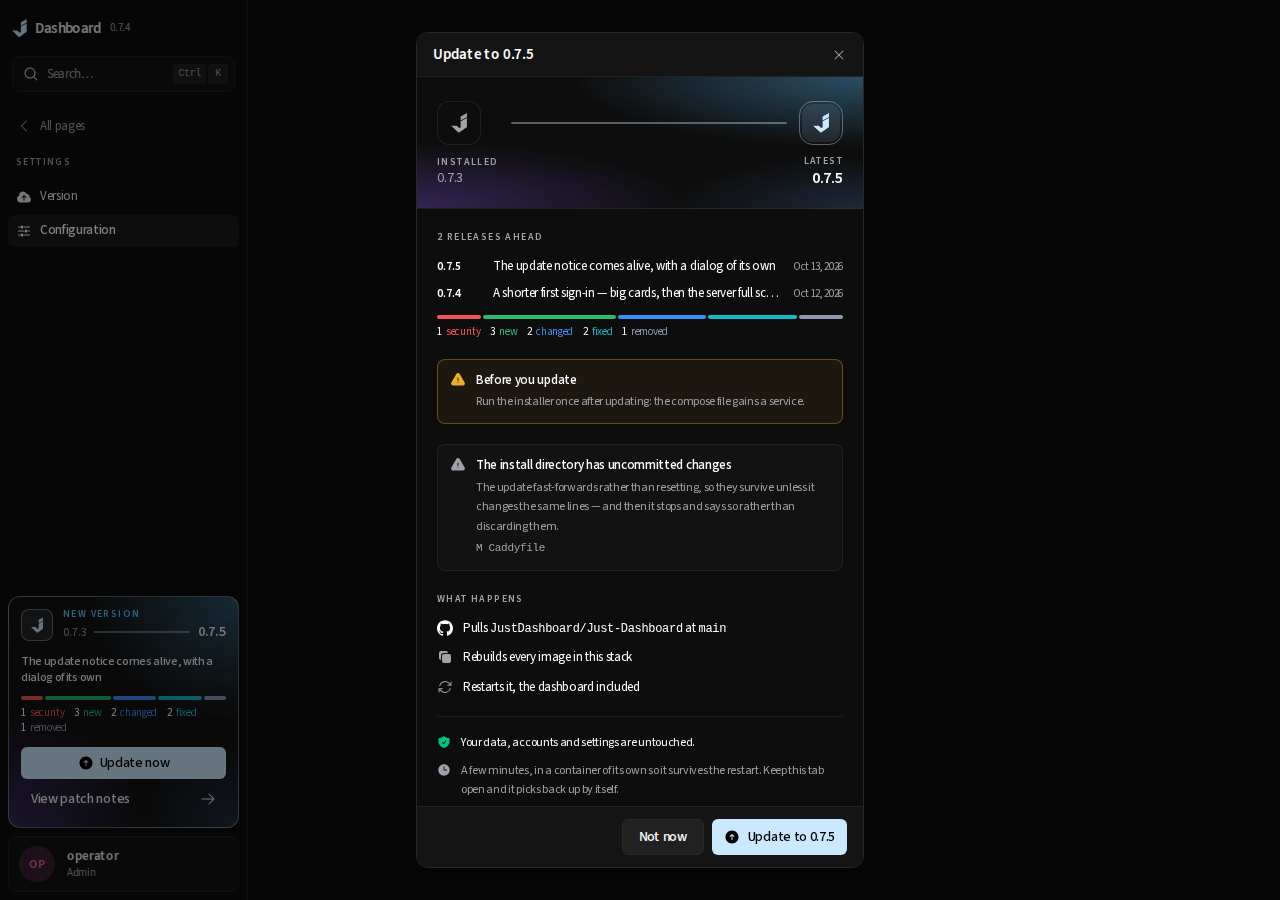
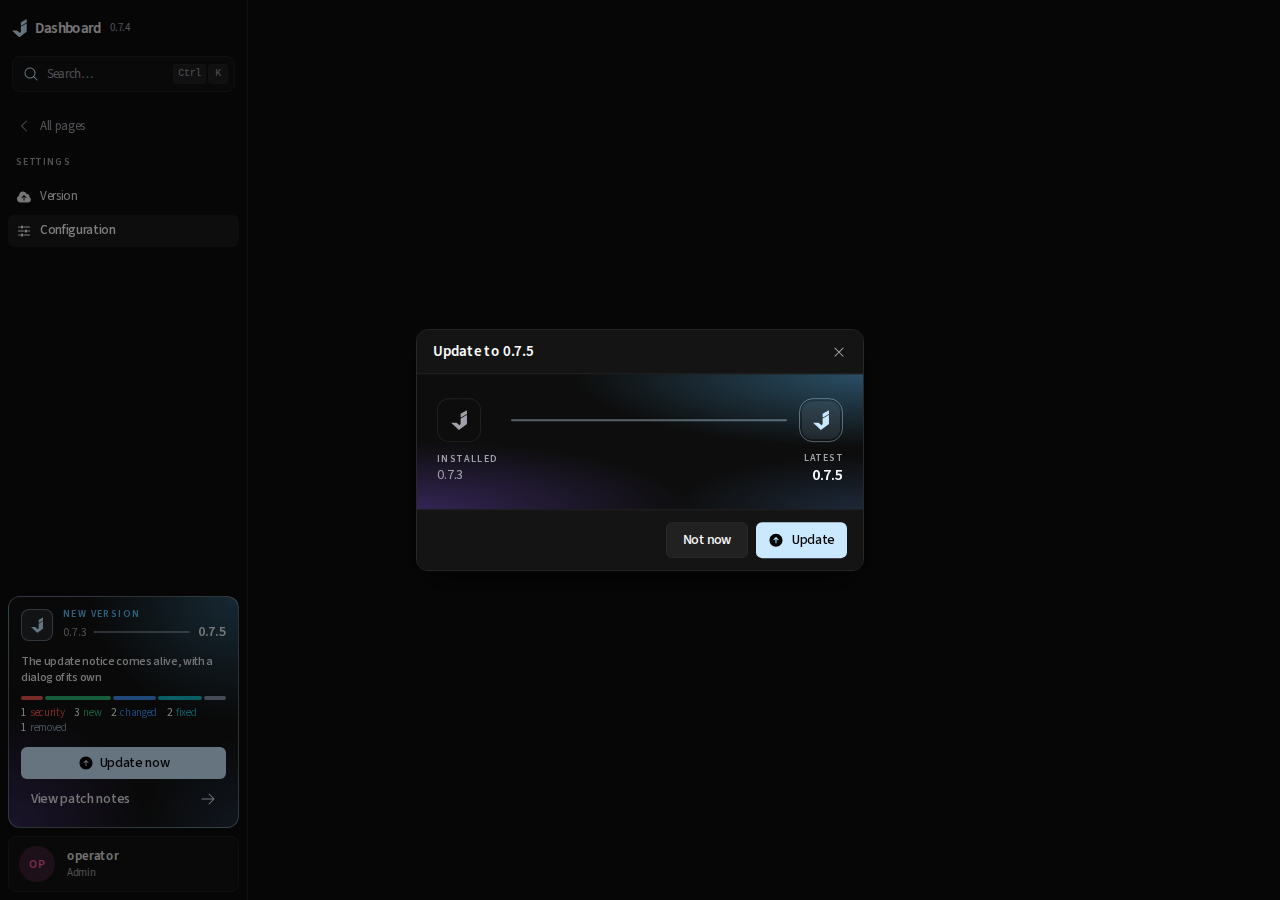
Ask for the update as a yes or a no, with the two versions and nothing else to read

diff --git a/frontend/src/components/update/update-dialog.tsx b/frontend/src/components/update/update-dialog.tsx
@@ -1,48 +1,30 @@
 "use client"
 
 import { useState } from "react"
-import {
-  ArrowCircleUp,
-  Layers,
-  RefreshClockwise,
-  ShieldCheck,
-  Stopwatch,
-  Warning,
-} from "@/components/icons"
+import { ArrowCircleUp } from "@/components/icons"
 import { notify } from "@/lib/toast"
 import { useSelfUpdate } from "@/hooks/use-self-update"
 import { LogoGlyph } from "@/components/logo"
-import { ProductGlyph } from "@/components/product-logo"
-import { KindBand, UpdateWire } from "@/components/update/update-art"
-import { releaseDay } from "@/components/update/release-notes"
+import { UpdateWire } from "@/components/update/update-art"
 import { Modal } from "@/components/modal"
-import { Notice } from "@/components/state"
 import { Button } from "@/components/ui/button"
 
 /**
- * "Update to 0.7.5?", asked as what it is.
+ * "Update to 0.7.5?" — yes or not now, and nothing else to read.
  *
  * This was the shared `ConfirmDialog`, and that dialog exists for acts that
  * are awkward to undo — most of them deletions — so its command is always
  * destructive red. An update is the opposite kind of act: the operator is
  * taking something, and the dialog asking them to confirm it wore the same
- * red as "Delete database". So it has its own. The command is the brand face
- * (§3: the one action on the surface), and the dialog says the three things
- * somebody about to replace their dashboard wants to know:
+ * red as "Delete database". So it has its own, with the brand face (§3: the
+ * one action on the surface).
  *
- * - **what arrives** — the installed version wired to the newest one, the
- *   releases between them, and what they hold by kind;
- * - **what has to be done by hand**, if anything — a breaking release's note
- *   and uncommitted edits in the checkout, never folded away;
- * - **what happens** — pulled from where, rebuilt, restarted — and what does
- *   not: the data, the accounts and the settings.
- *
- * It is a `Modal` like every other dialog — the title strip, a body that
- * scrolls, the command in the footer — and its body opens on a picture rather
- * than a sentence: the two versions wired together on arrival's light
- * (`.update-art`, design system §16), for the reason the sidebar notice stands
- * on it: a new version is the one thing in the shell that announces something
- * arriving.
+ * It asks and does not explain. A dialog that also listed the releases, the
+ * breaking notes and what the updater does was too much to read for a yes or
+ * a no; all of that is on the Version page, where the notice's *View patch
+ * notes* goes. What is left is the picture: the installed version wired to
+ * the newest on arrival's light (`.update-art`, design system §16), the way
+ * the sidebar notice draws it.
  *
  * No phrase to type: the route is destructive, but installing an update is
  * not one of the unrecoverable acts that require one (security invariant 3).
@@ -59,9 +41,6 @@ export function UpdateDialog({
   if (!report?.latest) return null
 
   const target = report.latest
-  const releases = report.releases
-  const dirty = report.install.dirty ?? []
-  const breaking = releases.filter((release) => release.breaking && release.breakingNote)
 
   const start = async () => {
     setBusy(true)
@@ -81,7 +60,7 @@ export function UpdateDialog({
       onOpenChange={(next) => !busy && onOpenChange(next)}
       size="sm"
       title={`Update to ${target}`}
-      description={`Installs ${target} over ${report.version}: pulls ${report.check.repo} at ${report.check.ref}, rebuilds every image in this stack and restarts it, the dashboard included.`}
+      description={`Installs ${target} over ${report.version} and restarts the dashboard.`}
       bodyClassName="p-0"
       footer={
         <>
@@ -90,14 +69,14 @@ export function UpdateDialog({
           </Button>
           <Button onClick={start} pending={busy}>
             <ArrowCircleUp />
-            Update to {target}
+            Update
           </Button>
         </>
       }
     >
       <div
         aria-hidden
-        className="update-art grid grid-cols-[auto_minmax(0,1fr)_auto] items-center gap-x-3 gap-y-2 border-b border-hairline px-5 pt-6 pb-5"
+        className="update-art grid grid-cols-[auto_minmax(0,1fr)_auto] items-center gap-x-3 gap-y-2 px-5 py-6"
       >
         <VersionMark />
         <UpdateWire />
@@ -105,109 +84,6 @@ export function UpdateDialog({
         <VersionLabel label="Installed" version={report.version} />
         <span />
         <VersionLabel label="Latest" version={target} next />
-      </div>
-
-      <div className="space-y-5 p-5">
-        {releases.length > 0 && (
-          <section className="space-y-3">
-            <h3 className="eyebrow">
-              {releases.length === 1 ? "What's in it" : `${releases.length} releases ahead`}
-            </h3>
-            <ul className="space-y-2">
-              {releases.slice(0, 4).map((release) => (
-                <li key={release.version} className="flex min-w-0 items-baseline gap-3">
-                  <span className="numeric w-11 shrink-0 text-xs font-semibold">
-                    {release.version}
-                  </span>
-                  <span className="min-w-0 flex-1 truncate text-body">{release.title}</span>
-                  <time
-                    dateTime={release.date}
-                    className="shrink-0 text-hint text-muted-foreground"
-                  >
-                    {releaseDay(release.date)}
-                  </time>
-                </li>
-              ))}
-            </ul>
-            {releases.length > 4 && (
-              <p className="text-hint text-muted-foreground">
-                and {releases.length - 4} more, back to {releases[releases.length - 1].version}
-              </p>
-            )}
-            <KindBand releases={releases} />
-          </section>
-        )}
-
-        {/* A breaking release is never folded away: the flag means the
-              operator has something to do by hand, and a warning met after
-              pressing Update is a warning met too late. */}
-        {breaking.map((release) => (
-          <Notice
-            key={release.version}
-            tone="warning"
-            icon={Warning}
-            title={
-              breaking.length === 1 ? (
-                "Before you update"
-              ) : (
-                <>
-                  Before you update — <span className="numeric">{release.version}</span>
-                </>
-              )
-            }
-          >
-            {release.breakingNote}
-          </Notice>
-        ))}
-
-        {dirty.length > 0 && (
-          <Notice title="The install directory has uncommitted changes" icon={Warning}>
-            <p>
-              The update fast-forwards rather than resetting, so they survive unless it changes the
-              same lines — and then it stops and says so rather than discarding them.
-            </p>
-            <ul className="mt-1 space-y-0.5 font-mono text-hint">
-              {dirty.slice(0, 4).map((line) => (
-                <li key={line}>{line}</li>
-              ))}
-            </ul>
-          </Notice>
-        )}
-
-        <section className="space-y-3">
-          <h3 className="eyebrow">What happens</h3>
-          <ol className="space-y-2.5 text-body">
-            <li className="flex min-w-0 items-center gap-2.5">
-              <ProductGlyph id="github" className="size-4" />
-              <span className="min-w-0 flex-1 truncate">
-                Pulls <span className="font-mono text-xs">{report.check.repo}</span> at{" "}
-                <span className="font-mono text-xs">{report.check.ref}</span>
-              </span>
-            </li>
-            <li className="flex min-w-0 items-center gap-2.5">
-              <Layers aria-hidden className="size-4 shrink-0 text-muted-foreground" />
-              <span className="min-w-0 flex-1">Rebuilds every image in this stack</span>
-            </li>
-            <li className="flex min-w-0 items-center gap-2.5">
-              <RefreshClockwise aria-hidden className="size-4 shrink-0 text-muted-foreground" />
-              <span className="min-w-0 flex-1">Restarts it, the dashboard included</span>
-            </li>
-          </ol>
-        </section>
-
-        <ul className="space-y-2 border-t border-hairline pt-4 text-xs leading-relaxed">
-          <li className="flex items-start gap-2.5">
-            <ShieldCheck aria-hidden className="mt-0.5 size-3.5 shrink-0 text-success" />
-            <span>Your data, accounts and settings are untouched.</span>
-          </li>
-          <li className="flex items-start gap-2.5 text-muted-foreground">
-            <Stopwatch aria-hidden className="mt-0.5 size-3.5 shrink-0" />
-            <span>
-              A few minutes, in a container of its own so it survives the restart. Keep this tab
-              open and it picks back up by itself.
-            </span>
-          </li>
-        </ul>
       </div>
     </Modal>
   )

diff --git a/frontend/tests/browser/dashboard-ui.spec.ts b/frontend/tests/browser/dashboard-ui.spec.ts
@@ -281,12 +281,11 @@ test("the sidebar's update notice leads to the Version page and installs through
   await notice.getByRole("button", { name: "Update now" }).click()
   const dialog = page.getByRole("dialog", { name: "Update to 0.7.0" })
   await expect(dialog).toBeVisible()
-  const command = dialog.getByRole("button", { name: "Update to 0.7.0" })
+  const command = dialog.getByRole("button", { name: "Update", exact: true })
   await expect(command).toHaveAttribute("data-variant", "default")
   await expect(dialog.locator("[data-variant=destructive]")).toHaveCount(0)
-  await expect(dialog.getByText("Before you update")).toBeVisible()
-  await expect(dialog.getByText("M Caddyfile")).toBeVisible()
-  await expect(dialog.getByText("Your data, accounts and settings are untouched.")).toBeVisible()
+  // A yes or a no: the notes and what the updater does are on the Version page.
+  await expect(dialog.getByText("Before you update")).toHaveCount(0)
 
   const install = page.waitForRequest(
     (request) =>

diff --git a/docs/internal/frontend/feature-map.md b/docs/internal/frontend/feature-map.md
@@ -11,7 +11,7 @@ hiding a control through `useAuth().can()` is affordance only.
 | `/excalidraw`, `/excalidraw/[id]` | Workspace Excalidraw drawings (`/boards` redirects here). The list opens on Excalidraw's logo and a line of facts over the drawings as lit cards, each drawn from the server's preview of its scene and sketched in on arrival, with the server items it links drawn as themselves. The editor embeds Excalidraw and autosaves to server SQLite with a revision guard; the insert panel adds linked cards for the host, deployment projects and saved databases | `components/boards/`, `lib/boards.ts`, `lib/drawing-preview.ts`; [drawing contract](../boards.md) |
 | `/stickyboard`, `/stickyboard/[id]` | Workspace sticky-note boards. The list opens on Stickyboard's mark and a line of facts (boards, notes, links, last edit) over the boards as lit cards drawn as themselves with their notes' words, with rename, duplicate and delete, and a Start from row of templates drawn as the boards they make. A board is an endless canvas of sticky notes, text and sections with links between them: pan, zoom, a minimap, a tool rail, a format bar over the selection, Markdown with tickable tasks, a section that carries its notes, drag-out linking, clipboard, undo, find and keyboard shortcuts; it autosaves to server SQLite with a revision guard | `components/stickyboard/`, `lib/stickyboard.ts`; [stickyboard contract](../stickyboard.md) |
 | `/` | Host overview: the machine's identity line (its distribution, processor and hypervisor drawn as their marks, kernel, uptime, processes), a Resources section headed by the socket's Live state and an All metrics link, holding four live readings (CPU, memory, load and network, each keyed to and carrying its last hour as a sparkline, each figure gliding to every two-second frame, CPU with a bar per core) over a Storage band (each real filesystem, up to four, as a capacity bar with its free space and total, beside a live Disk I/O reading with its last hour), the Deployments section (up to six of the fleet's own project cards, worst first, with each project's product, address, traffic, run strip and a light round the edge while one deploys, a count of those left out, New project and All projects, or the first-project empty state); the top processes (the Metrics page's list, by CPU, memory or I/O, each drawn as its product) beside the last 24 hours of recorded events (shared audit product marks, coloured source names, common action labels with literal targets, explicit outcomes, exact/elapsed times and an administrator-only link to the full audit log); and one destination tile per module — Docker (with the products its running containers are), databases (with their engines), proxy, security exposure, package updates and reboot state, backups, Git (its checkouts, what is uncommitted or behind, and the forges they push to) and the dashboard's own version. The Deployments section and each module's tile — with the read behind it — are left out for a section the account keeps out of its sidebar | dashboard root page plus `components/overview/activity.tsx` and `activity-event.ts` (unit-tested), `readings.tsx` and `storage.tsx`, `components/metrics/` (`host-identity.tsx`, `top-processes.tsx`), `components/deploy/fleet-card.tsx`, `components/product-logo.tsx` |
-| `/dashboard` | The panel's own version: one identity line (the mark and the installed version, the GitHub repository and branch it follows, the check's verdict), the upgrade while one runs, and the release history as a searchable timeline. The sidebar entry is "Settings" — inside a product called Dashboard, an entry called Dashboard said nothing — and this page is its "Version". It is also where the sidebar's update notice leads: *View patch notes*, *View progress*, *See what's new* and *See what went wrong* all open this page. *Update to …* here and *Update now* on the notice open the same dialog — the two versions wired together, the releases between them and what they bring by kind, any breaking note and uncommitted edits, what the update does and leaves alone, and a brand-faced command | `components/update/` (`release-timeline.tsx`, `update-progress.tsx`, `update-notice.tsx`, `update-dialog.tsx`, `update-art.tsx`), `lib/release-kinds.ts` (unit-tested), `components/run-transcript.tsx`, self-update provider; checked by `tests/browser/dashboard-ui.spec.ts` |
+| `/dashboard` | The panel's own version: one identity line (the mark and the installed version, the GitHub repository and branch it follows, the check's verdict), the upgrade while one runs, and the release history as a searchable timeline. The sidebar entry is "Settings" — inside a product called Dashboard, an entry called Dashboard said nothing — and this page is its "Version". It is also where the sidebar's update notice leads: *View patch notes*, *View progress*, *See what's new* and *See what went wrong* all open this page. *Update to …* here and *Update now* on the notice open the same dialog, which asks and does not explain: the installed version wired to the newest, *Not now*, and a brand-faced *Update* | `components/update/` (`release-timeline.tsx`, `update-progress.tsx`, `update-notice.tsx`, `update-dialog.tsx`, `update-art.tsx`), `lib/release-kinds.ts` (unit-tested), `components/run-transcript.tsx`, self-update provider; checked by `tests/browser/dashboard-ui.spec.ts` |
 | `/dashboard/configuration` | The panel's own settings. An identity line first: the address it answers at (scheme, host and port each in their hue), the checkout with Compose's mark, its compose and `.env` files, the last restart, and Running or the restart's state. Then the stack as the path a request takes — this browser, the tailnet (or loopback, or the network), Caddy on its port with the certificate's issuer, and Next.js and Go on their loopback ports with a state dot — wired with pulsing beams that go still and amber during a restart, beside Restart and Rebuild as two cards naming the `docker compose` command each runs, and the run record under them with its stages and whole transcript, followed across the restart it describes. Then the settings in two columns from `xl`: Certificate across both (three cards with their products' logos; picking one carries the address, listening interface and allowlist with it, filled from the machine's own tailnet identity), Address beside Access, Sessions beside Features. Each head carries what the section currently is and *Edited* while it holds an unapplied change. The allowlist is a list of networks drawn as Tailscale, this server, local or public, with add and remove (the only loopback entry cannot be removed); session durations are read back in words and a value that is not a duration is flagged. Last, a Danger zone in the danger rule with Uninstall, whose dialog asks whether the deployments and data are kept for a reinstall or wiped — what each removes and leaves is read off the server, a wipe asks for the host name and whether the backups go too — and whose run takes the top of the page, hiding the stack and settings, until the dashboard stops and the record says what is left to do | `components/config/request-path.tsx`, `components/config/allowlist.tsx`, `components/config/restart-progress.tsx`, `components/config/uninstall.tsx`, `components/run-transcript.tsx`, `components/run-phases.tsx`, `hooks/use-self-config.tsx`, `hooks/use-self-uninstall.tsx`, `lib/uninstall.ts` (`system.admin` only) |
 | `/account`, `/account/security`, `/account/sessions`, `/account/keys`, `/account/workspace`, `/account/users` | The signed-in account as six pages under one strip. Workspace: the first-run answer after the fact — the sections the account keeps in its sidebar as the same tiles beside the same preview, saved together, and *Ask me again* back to `/welcome`. Profile: the display name in the account's identity line (`HostIdentity` with the picture as its mark — the sign-in name and role, member since, last sign-in, the browser and network this session came in through drawn as themselves, and the two-factor verdict), a readings row of two-factor, sessions, API keys and (for `system.admin`) users — each a `StatLink` to its page, naming what it counts with the things themselves: the sessions' browsers, the keys' products, the administrators' faces — the identity block (picture cropped and shrunk in the browser before upload, display name, sign-in name) and what the role can do, one capability per row beside the sidebar glyph it opens. Security: a form whose section heads sit over their fields — two-factor (its state under its head; enrol with the grouped secret, copy and open-in-authenticator, recovery codes shown once with copy-all, regenerate, turn off), password (the server's rule lit as it is met, `lib/password.ts`) and where the account is signed in, drawn as its clients with a link to Sessions. Sessions: this device as an identity line, every other session as a row drawn as its browser with its system in the tile's corner, the network its address is on (Tailscale's ranges by its mark, a private range, loopback or the internet — `lib/clients.ts`), whether it passed a code and when it was last seen; sign out one or every other. API keys: four readings (in use, used this week, never used, expiring soon), then the usable keys and the revoked or expired ones as rows drawn as the product their name names (`keyProduct`), with the owner's face on a key an administrator reads that is not theirs, the request that uses a key, and a create dialog whose roles are cards and whose name field shows the mark the key will carry; with no keys the empty state says what one is for. Users: four readings (accounts, administrators, two-factor coverage — amber while an administrator has none — and who signed in this week) over the accounts as cards drawn by their faces that open the editor, with role and sign-in inline and 2FA reset and ordinary confirmation for deletion in the card's menu; a new account's role is picked from cards | `components/account/` (`user-avatar.tsx` is also the rail's picture and holds `InitialsMark`, the face of anyone drawn from a bare name; `totp-secret.tsx` is also the sign-in page's enrolment; `role-choice.tsx`), `components/client-mark.tsx` (a session's client drawn as itself, shared with a deployment's requests), `lib/clients.ts`, `lib/password.ts`, account layout/pages, auth hook, confirmation primitives; checked by `tests/browser/account-ui.spec.ts` |
 | `/audit` | Four readings of the last day (changes with an hourly trend, failures, the people behind them as faces, sign-ins with the refused ones), read from their own `since` query so a filter does not narrow them; the filtered, paginated trail as a framed table shelved by day, each entry drawn with the mark of the section it touched, its actor as a face (a key in the corner for an API key, the webhook's and the dashboard's own marks for machines), its address as the network it is on, the method and path in the request log's hues and the outcome's code in its family's colour; section chips with their marks set the action filter; entries a poll brings rise into place | audit page, `components/audit/marks.tsx` (unit-tested); checked by `tests/browser/system-ui.spec.ts` |

diff --git a/docs/internal/frontend/data-theming.md b/docs/internal/frontend/data-theming.md
@@ -351,8 +351,8 @@ are dated evidence, not proof of current attachment ownership.
   notice's links all go to that page, which is where the release notes are read; there is no second
   rendering of them in a sheet. Installing goes through `useUpdateDialog`, not the shared
   `ConfirmDialog`: that one is for acts that are awkward to undo and its command is always destructive
-  red, where an update is something taken, so its command is the brand face. Both the notice and the
-  page hold one.
+  red, where an update is something taken, so its command is the brand face. It is a yes or a no and
+  nothing else to read — the notes are on the page. Both the notice and the page hold one.
 - `hooks/use-self-config.tsx` is the same shape for the dashboard's own settings, with one problem the
   update flow does not have: a change to the port or the address means the dashboard **does not come back
   here**. Nothing on the client can follow it, so the run record carries the new endpoint and

diff --git a/docs/internal/frontend/shell-design.md b/docs/internal/frontend/shell-design.md
@@ -217,7 +217,7 @@ dismissed. It is a card on arrival's light (`.update-art`, design system §16) w
 an eyebrow in the notice's tone, the installed version wired to the newest with a pulse running
 along the wire, the newest release's title and a band of what the releases bring by kind. An admin on
 an install that updates in place gets *Update now*, which opens the update's own dialog
-(`update-dialog.tsx`); everyone gets a link to the Version page (`/dashboard`) for the notes. While an
+(`update-dialog.tsx`: the two versions, *Not now* and *Update*, nothing else); everyone gets a link to the Version page (`/dashboard`) for the notes. While an
 update runs the card carries the border beam, the stage it is at and *View progress*; afterwards it
 turns green with *See what's new*, or red with the updater's error and *See what went wrong*, and only
 then can it be dismissed. In the icon rail it is one tile in the same tone that links to the Version
